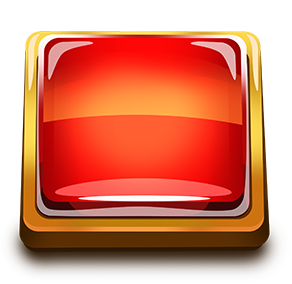
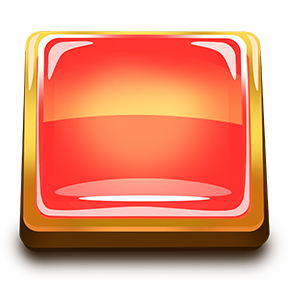
feat: add button texture swapping

diff --git a/src/SpinButton.ts b/src/SpinButton.ts
@@ -1,24 +1,75 @@
-import { Container, Sprite } from "pixi.js";
+import { Container, Sprite, Texture } from "pixi.js";
 
 export class SpinButton extends Container {
     private _button: Sprite;
+    private _enabled = true;
+
+    private _normal = Texture.from('spin_btn_normal');
+    private _hover = Texture.from('spin_btn_hover');
+    private _down = Texture.from('spin_btn_down');
+    private _disabled = Texture.from('spin_btn_disabled');
+
+    private _onKeyDown = (e: KeyboardEvent) => {
+        if (e.code !== 'Space' || !this._enabled) return;
+
+        e.preventDefault();
+        this._button.texture = this._down;
+    };
+
+    private _onKeyUp = (e: KeyboardEvent) => {
+        if (e.code !== 'Space' || !this._enabled) return;
+
+        e.preventDefault();
+        this._button.emit('pointertap');
+    };
 
     constructor() {
         super();
 
-        this._button = Sprite.from('spin_btn_normal');
+        this._button = new Sprite(this._normal);
         this._button.anchor.set(0.5);
         this._button.eventMode = 'static';
         this._button.cursor = 'pointer';
+
+        this._button.on('pointerover', () => {
+            if (this._enabled) this._button.texture = this._hover;
+        });
+
+        this._button.on('pointerout', () => {
+            if (this._enabled) this._button.texture = this._normal;
+        });
+
+        this._button.on('pointerdown', () => {
+            if (this._enabled) this._button.texture = this._down;
+        });
+
+        this._button.on('pointerup', () => {
+            if (this._enabled) this._button.texture = this._hover;
+        });
+
+        window.addEventListener('keydown', this._onKeyDown);
+        window.addEventListener('keyup', this._onKeyUp);
 
         this.addChild(this._button);
     }
 
     update(dt: number): void { }
 
+    setEnabled(enabled: boolean) {
+        this._enabled = enabled;
+        this._button.eventMode = enabled ? 'static' : 'none';
+        this._button.cursor = enabled ? 'pointer' : 'default';
+        this._button.texture = enabled ? this._normal : this._disabled;
+    }
+
     waitForClick(): Promise<void> {
+        this.setEnabled(true);
+
         return new Promise(resolve => {
-            this._button.once('pointertap', () => resolve());
+            this._button.once('pointertap', () => {
+                this.setEnabled(false);
+                resolve();
+            });
         });
     }
 }

diff --git a/src/Machine.ts b/src/Machine.ts
@@ -144,12 +144,9 @@ class Reel extends Container {
 
 export class Machine extends Container {
     private _reels: Reel[] = [];
-    private _config: any;
 
     constructor({ reelsGuide, config }: { reelsGuide: Sprite; config: any }) {
         super();
-
-        this._config = config;
 
         const reelWidth = reelsGuide.width / config.columns;
         const reelHeight = reelsGuide.height;
